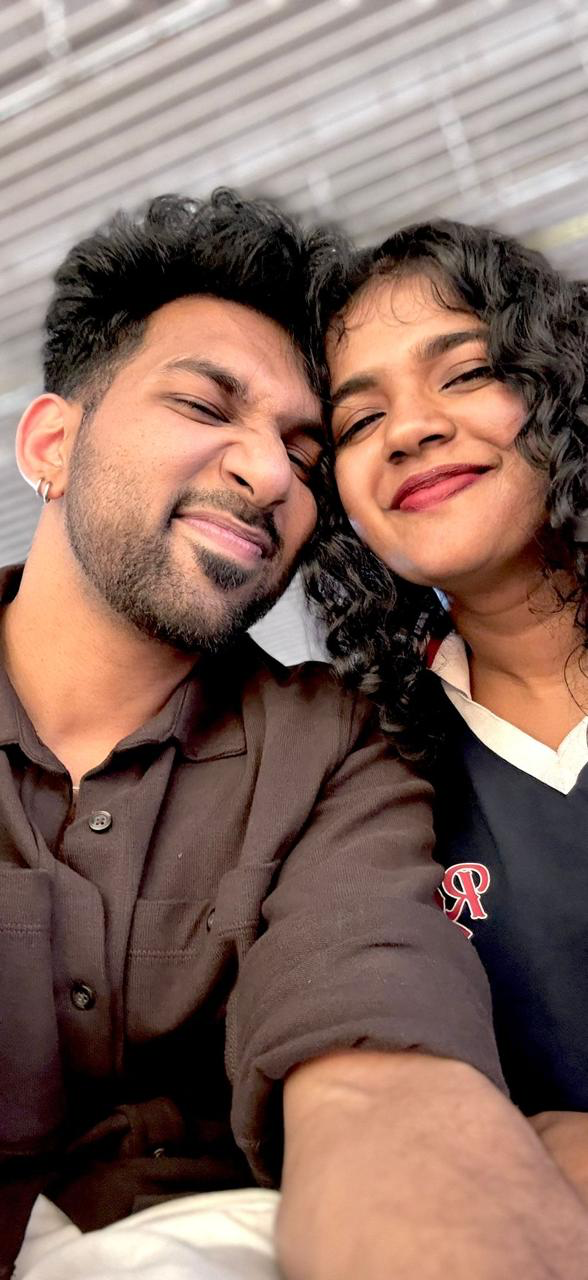
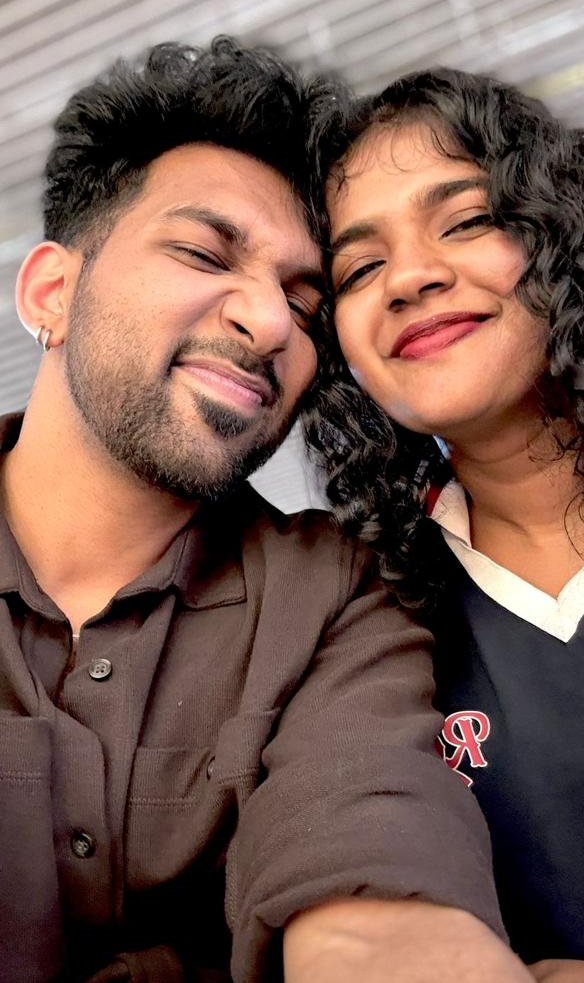
Update Gallery component with new image and enhance layout; add 'Mirror' image and adjust grid structure for improved responsiveness.

diff --git a/src/components/Gallery.tsx b/src/components/Gallery.tsx
@@ -30,6 +30,12 @@ const GALLERY_IMAGES = [
     note: "Blessed together",
     featured: true,
   },
+  {
+    src: "/images/mirror.png",
+    alt: "Mirror",
+    note: "Moments of Us",
+    featured: true,
+  },
 
   {
     src: "/images/gallery1.png",
@@ -90,7 +96,7 @@ function GalleryItem({
   return (
     <motion.div
       ref={ref}
-      className={`group relative mb-4 break-inside-avoid overflow-hidden rounded-2xl
+      className={`group relative overflow-hidden rounded-2xl
       ${featured
           ? "border border-[#d7b8b0]/40 shadow-[0_10px_40px_rgba(0,0,0,0.15)]"
           : ""
@@ -110,13 +116,13 @@ function GalleryItem({
         style={{ y }}
         whileHover={{ scale: 1.03 }}
         transition={{ duration: 0.5 }}
+        className="relative aspect-[4/5] overflow-hidden"
       >
         <Image
           src={src}
           alt={alt}
-          width={800}
-          height={1000}
-          className="h-auto w-full object-cover transition-transform duration-700"
+          fill
+          className="object-cover transition-transform duration-700"
           sizes="(max-width:768px) 50vw, 33vw"
         />
       </motion.div>
@@ -178,7 +184,7 @@ export default function Gallery() {
           Moments of Us
         </motion.h2>
 
-        <div className="mx-auto max-w-6xl columns-2 gap-4 md:columns-3">
+        <div className="mx-auto grid max-w-6xl grid-cols-2 gap-4 md:grid-cols-3">
           {GALLERY_IMAGES.map((image, index) => (
             <GalleryItem
               key={image.src}